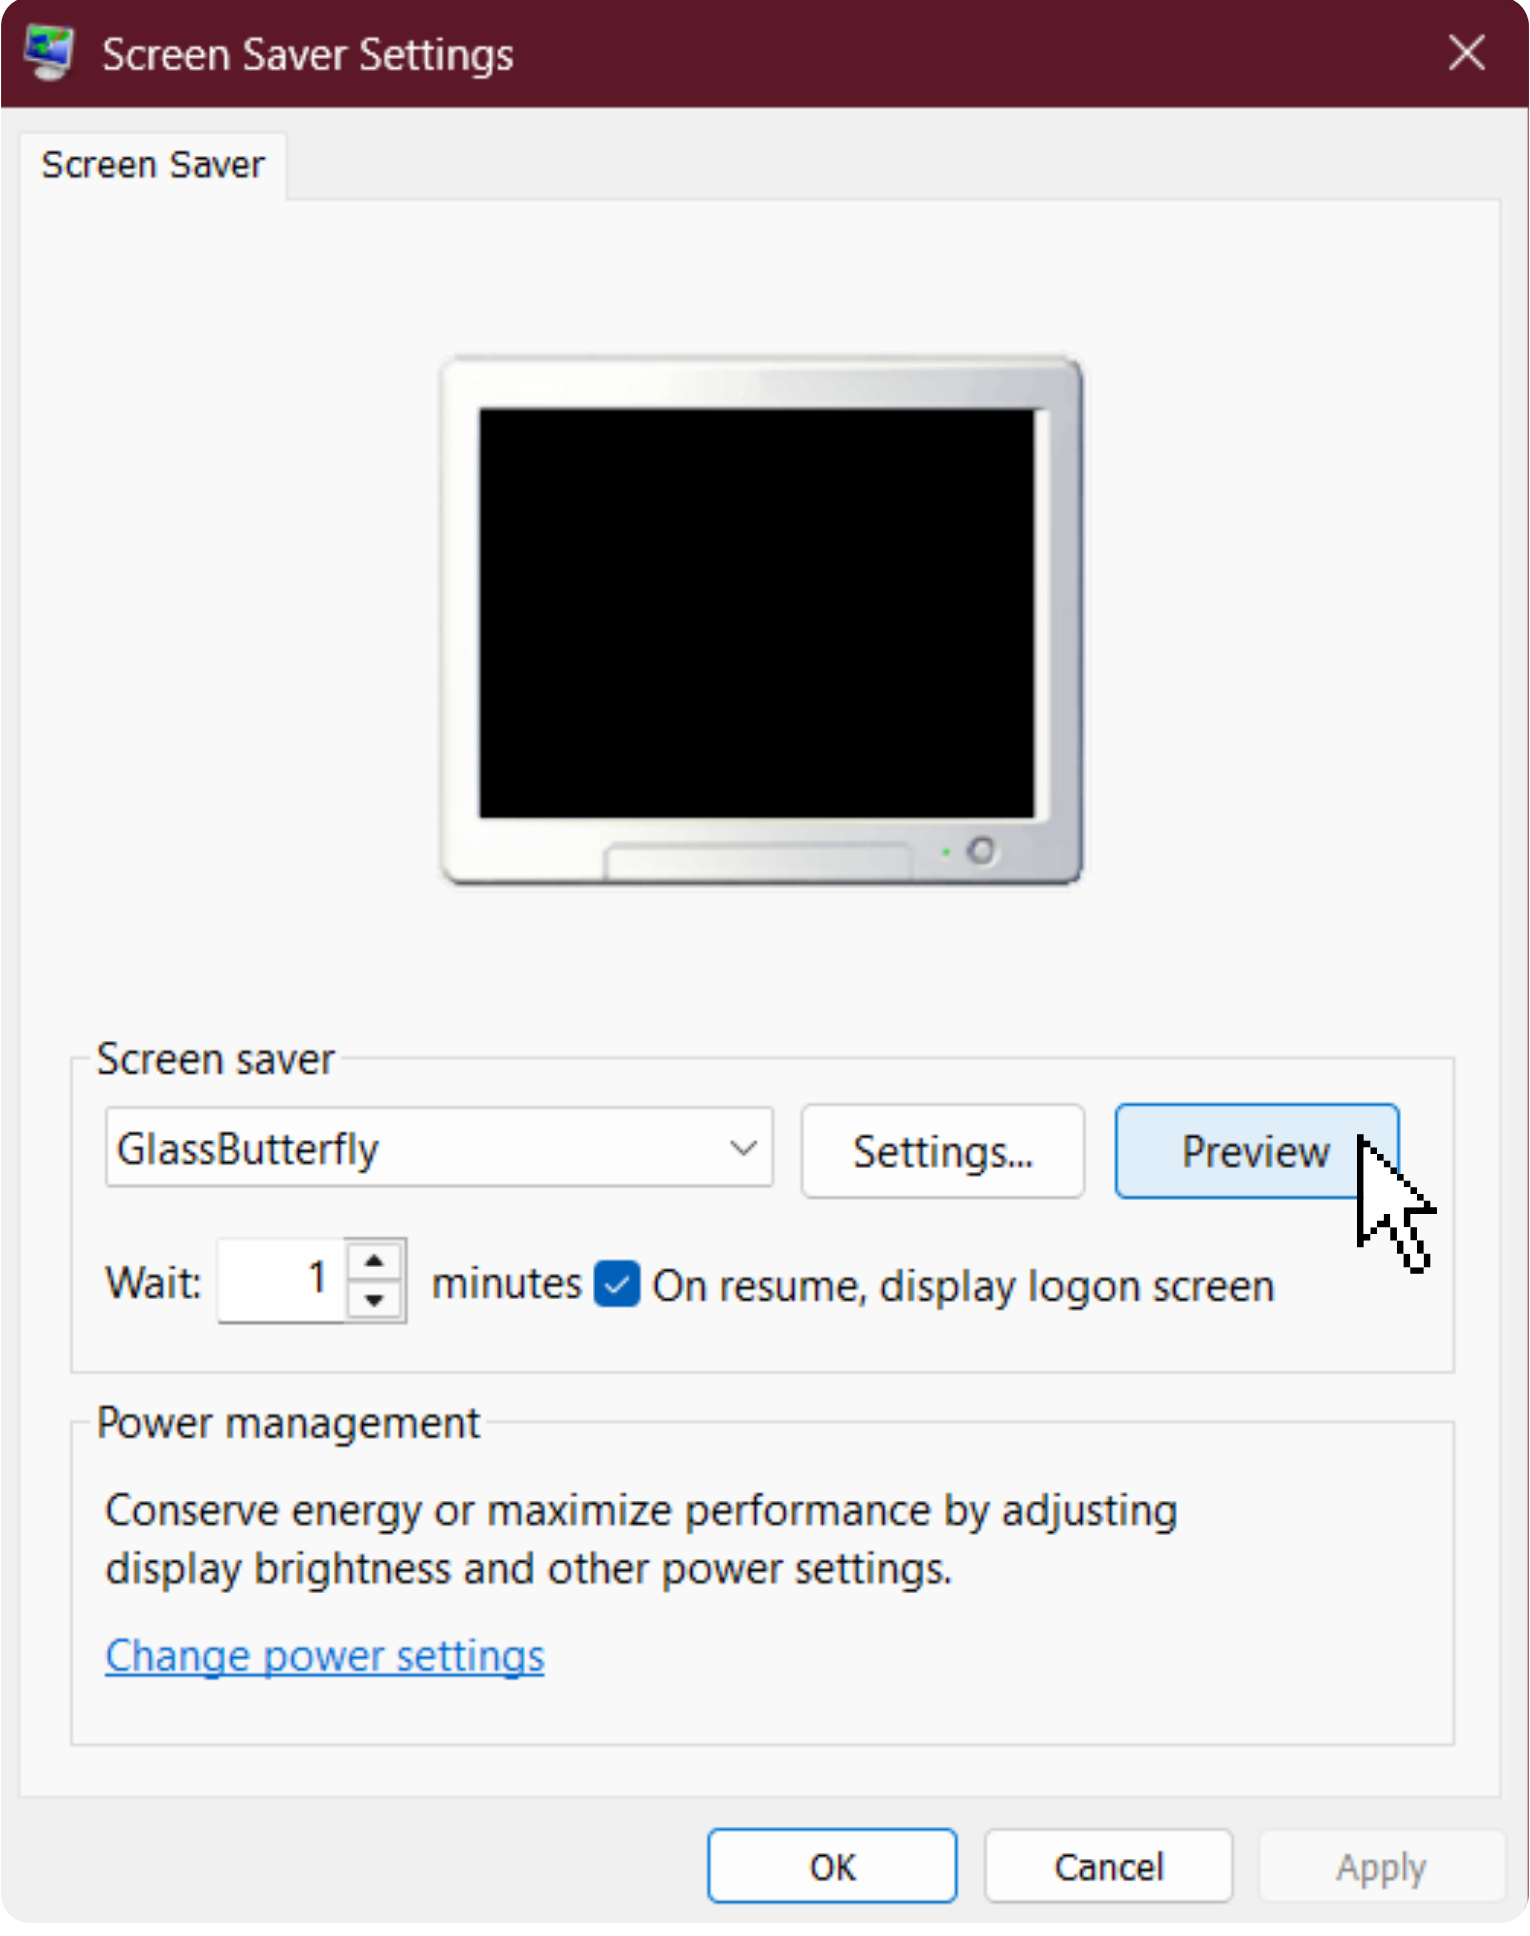
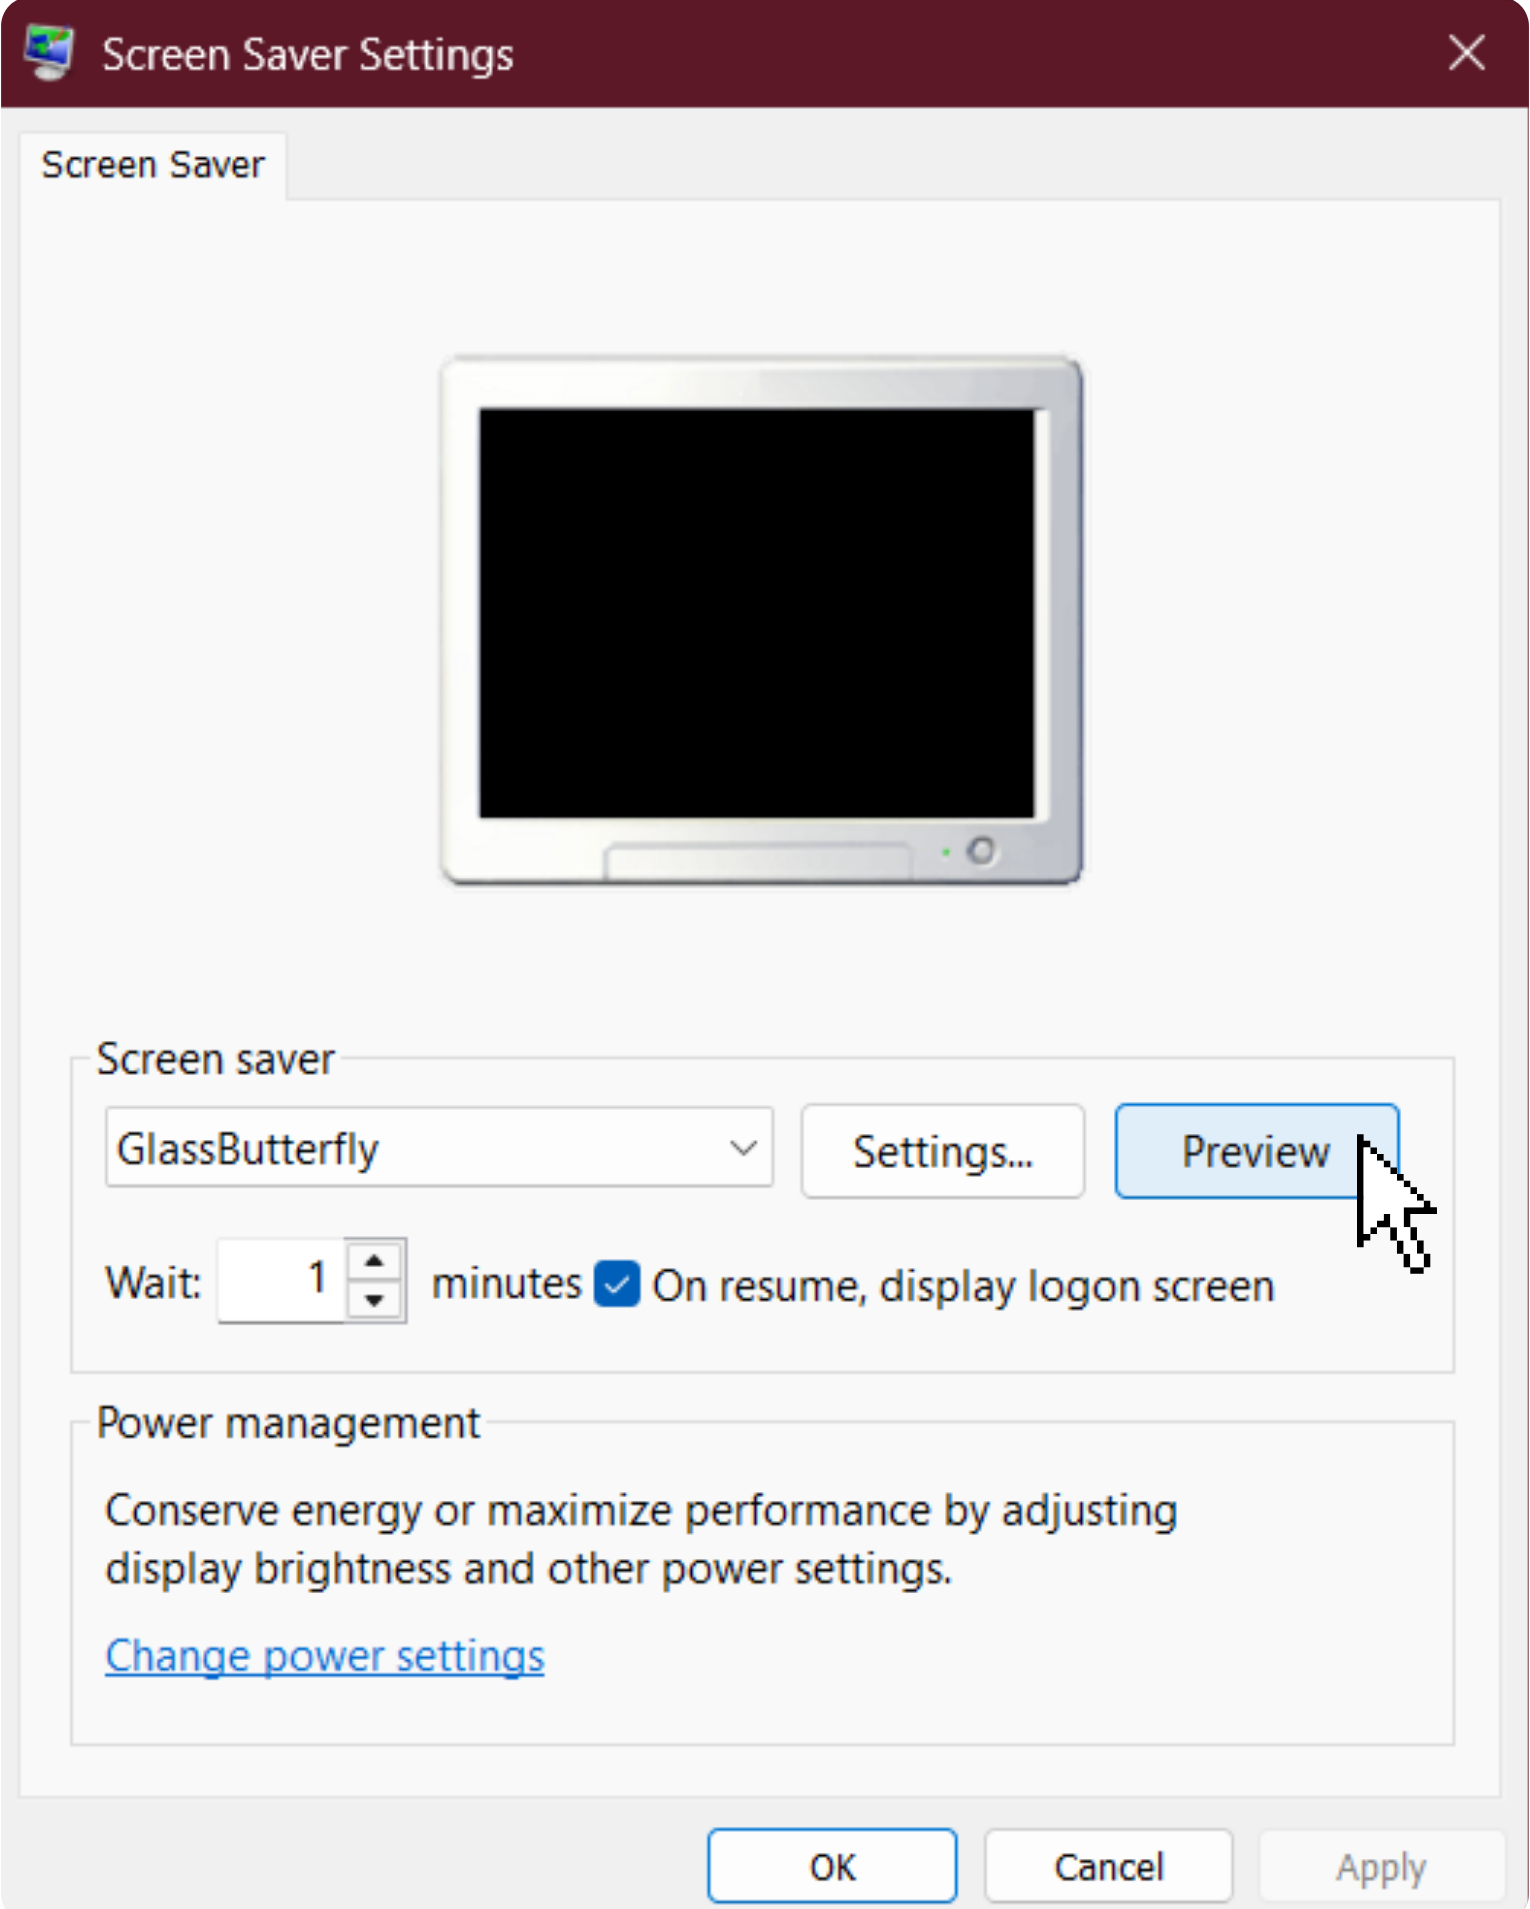
added the welcome onboarding

diff --git a/components/InstallationSection.tsx b/components/InstallationSection.tsx
@@ -9,9 +9,9 @@ import {
 } from "framer-motion";
 import { EASE } from "@/lib/motion";
 
-type Step = { img: string; caption: string };
+type Slide = { img: string; caption?: string; finale?: boolean };
 
-const STEPS: Step[] = [
+const STEPS: Slide[] = [
   { img: "/assets/Installtion/1.png", caption: "Download the .zip and extract it to a folder." },
   { img: "/assets/Installtion/2.png", caption: "Open the extracted GlassButterfly folder." },
   { img: "/assets/Installtion/3.png", caption: "Right-click GlassButterfly.scr." },
@@ -23,6 +23,10 @@ const STEPS: Step[] = [
   { img: "/assets/Installtion/9.png", caption: "Click Preview to see it live." },
   { img: "/assets/Installtion/10.png", caption: "Click OK. Reopen anytime via “Screen Saver Settings” in Windows search." },
 ];
+
+// The finale slides in last, like the rest.
+const SLIDES: Slide[] = [...STEPS, { img: "/assets/welcome.png", finale: true }];
+const LAST = SLIDES.length - 1;
 
 export default function InstallationSection() {
   const wrapRef = useRef<HTMLElement>(null);
@@ -90,8 +94,11 @@ export default function InstallationSection() {
       style={{ height: `${vh + maxX}px` }}
     >
       <div className="sticky top-0 flex h-screen flex-col overflow-hidden">
-        {/* Heading */}
-        <div className="mx-auto w-full max-w-6xl px-6 pt-24 md:pt-28">
+        {/* Heading — disappears once the welcome finale is reached */}
+        <div
+          className="mx-auto w-full max-w-6xl px-6 pt-24 transition-opacity duration-500 md:pt-28"
+          style={{ opacity: active === LAST ? 0 : 1 }}
+        >
           <motion.h2
             initial={{ opacity: 0, y: 30 }}
             whileInView={{ opacity: 1, y: 0 }}
@@ -101,7 +108,12 @@ export default function InstallationSection() {
           >
             Installation
           </motion.h2>
-          <p className="mt-3 text-ink/50">Up and running in about a minute.</p>
+          <p
+            className="mt-3 text-ink/50 transition-opacity duration-500"
+            style={{ opacity: active === 0 ? 1 : 0 }}
+          >
+            Up and running in about a minute.
+          </p>
         </div>
 
         {/* Horizontal filmstrip (slides with scroll) */}
@@ -111,8 +123,26 @@ export default function InstallationSection() {
             style={{ x }}
             className="flex items-center gap-[26vw] px-[18vw] md:gap-[17vw] md:px-[26vw]"
           >
-            {STEPS.map((s, i) => {
+            {SLIDES.map((s, i) => {
               const on = i === active;
+              if (s.finale) {
+                return (
+                  <li key={i} className="shrink-0">
+                    <motion.div
+                      animate={{ scale: on ? 1 : 0.78 }}
+                      transition={{ duration: 0.5, ease: EASE.smooth }}
+                      className="flex origin-center items-center justify-center"
+                    >
+                      <img
+                        src={s.img}
+                        alt="That’s it. Welcome to GlassButterfly."
+                        draggable={false}
+                        className="block h-auto w-auto max-h-[46vh] max-w-[88vw] md:max-h-[52vh] md:max-w-[66vw]"
+                      />
+                    </motion.div>
+                  </li>
+                );
+              }
               return (
                 <li key={i} className="shrink-0">
                   <motion.div

diff --git a/components/Footer.tsx b/components/Footer.tsx
@@ -35,7 +35,7 @@ export default function Footer() {
             Stay close
           </h2>
           <p className="mt-4 font-display text-[clamp(1.5rem,4vw,2.25rem)] leading-tight text-ink/90">
-            We&apos;re building more beautiful software.
+            Building more beautiful software.
           </p>
 
           {/* E-mail capture — the CTA disappears once you're in */}
